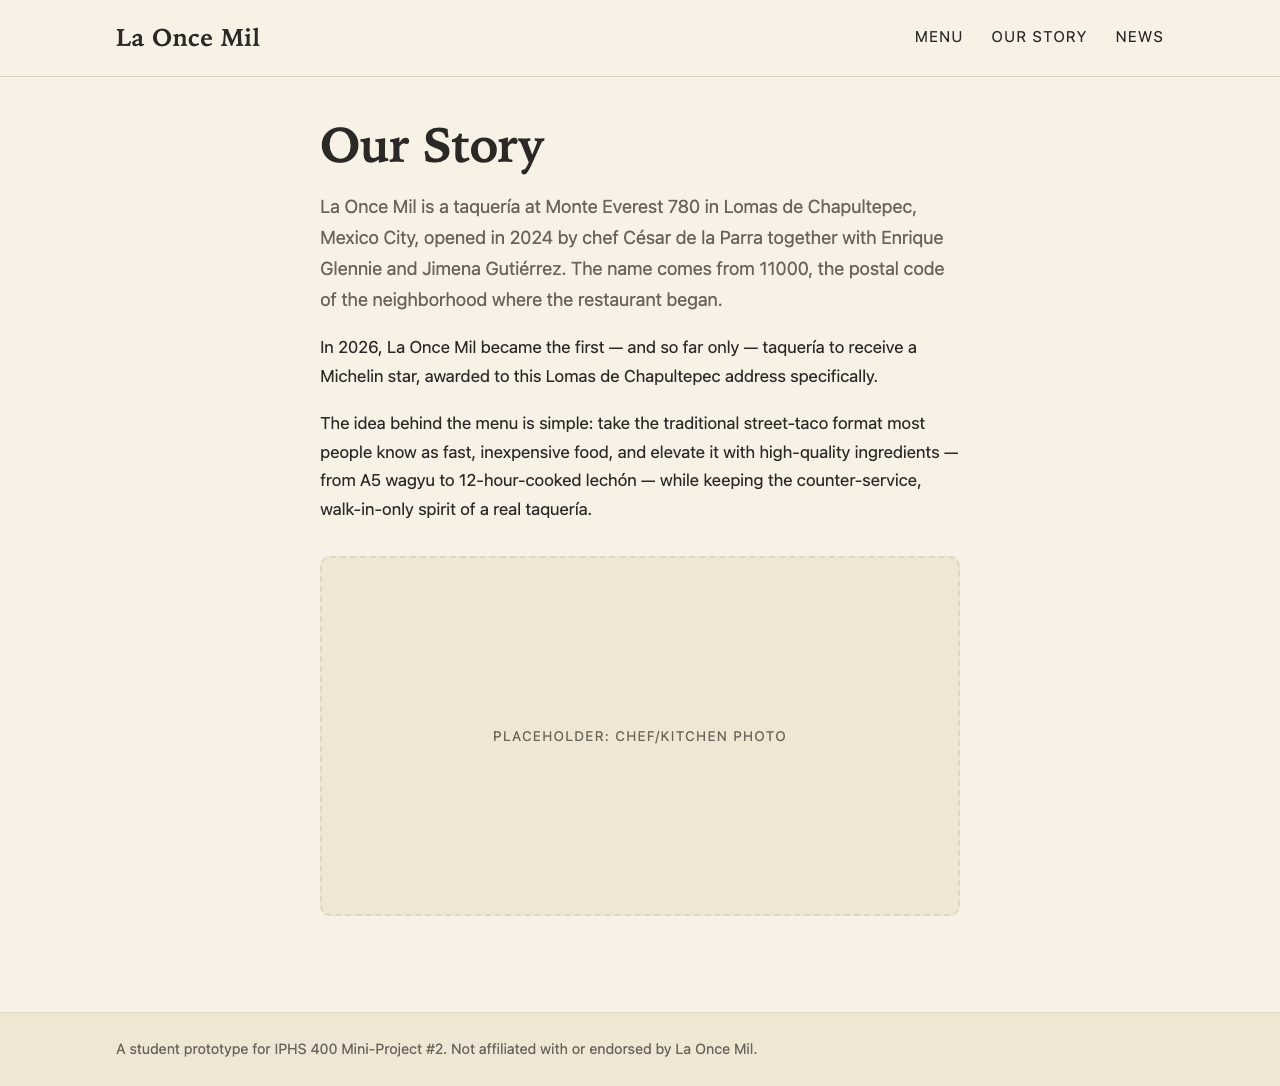
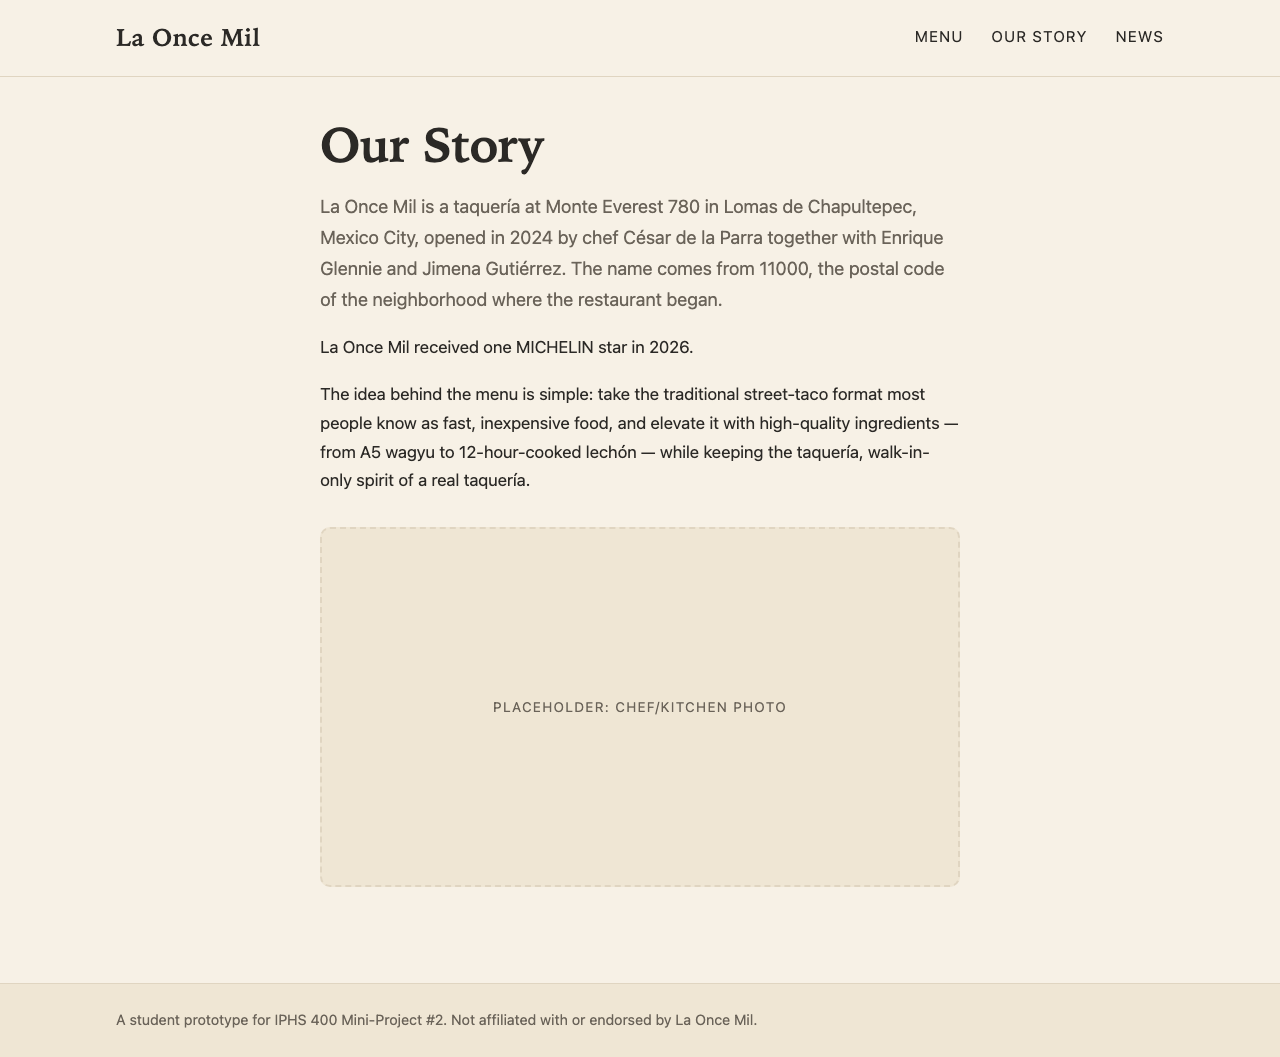
T09: Our Story wording under #10
"counter-service" becomes "taquería"; the "first and only" claim becomes
"La Once Mil received one MICHELIN star in 2026." Applied to seed content and,
via refresh_public_copy(), to saved pages without overwriting other edits
(whitespace-tolerant, Our Story only).

Refs #10

diff --git a/tests/test_public_copy.py b/tests/test_public_copy.py
@@ -171,3 +171,62 @@ def test_refresh_leaves_a_draft_pages_status_alone_and_an_untitled_start_unchang
     seed.refresh_public_copy()
     after = db.get_page_by_slug("menu")
     assert after["status"] == "draft" and after["body_md"] == "Just text, no heading."
+
+
+# --- Our Story wording (T09, final copy decisions) ----------------------------
+
+STAR_SENTENCE = "La Once Mil received one MICHELIN star in 2026."
+OLD_STAR_SENTENCE = ("In 2026, La Once Mil became the first — and so far only — taquería to receive a "
+                     "Michelin star, awarded to this Lomas de Chapultepec address specifically.")
+
+
+def test_our_story_uses_the_agreed_wording_in_seed_and_export(site):
+    html = _visible((site / "our-story.html").read_text())
+    assert STAR_SENTENCE in html
+    assert "counter-service" not in html and "so far only" not in html and "became the first" not in html
+    assert "keeping the taquería, walk-in-only spirit" in html
+
+
+def test_refresh_applies_the_wording_to_a_saved_page_and_keeps_other_edits(seed):
+    saved = seed.OUR_STORY_BODY.replace(STAR_SENTENCE, OLD_STAR_SENTENCE)
+    saved = saved.replace("keeping the taquería,", "keeping the counter-service,")
+    saved += "\nOpen since 2024, still no reservations.\n"
+    _save("our-story", saved)
+    assert seed.refresh_public_copy() == 1
+    body = db.get_page_by_slug("our-story")["body_md"]
+    assert STAR_SENTENCE in body and "counter-service" not in body and "so far only" not in body
+    assert "Open since 2024, still no reservations." in body          # the Manager's addition survives
+    assert "Jimena Gutiérrez" in body                                  # the rest is untouched
+    assert seed.refresh_public_copy() == 0                             # and it is idempotent
+
+
+def test_refresh_leaves_a_page_alone_when_the_manager_already_reworded_the_sentence(seed):
+    saved = seed.OUR_STORY_BODY.replace(STAR_SENTENCE, "We hold a Michelin star, since 2026.")
+    _save("our-story", saved)
+    seed.refresh_public_copy()
+    assert db.get_page_by_slug("our-story")["body_md"] == saved
+
+
+def test_refresh_finds_the_old_sentence_even_if_it_was_wrapped_or_saved_with_crlf(seed):
+    wrapped = OLD_STAR_SENTENCE.replace("became the first", "became\nthe first").replace("so far only —", "so far   only —")
+    saved = seed.OUR_STORY_BODY.replace(STAR_SENTENCE, wrapped).replace("\n", "\r\n")
+    _save("our-story", saved)
+    assert seed.refresh_public_copy() == 1
+    body = db.get_page_by_slug("our-story")["body_md"]
+    assert STAR_SENTENCE in body and "so far" not in body
+    assert "\r\n" in body                                              # line endings are left as saved
+
+
+def test_a_manager_edit_next_to_the_old_wording_survives(seed):
+    saved = seed.OUR_STORY_BODY.replace("keeping the taquería,", "keeping the counter-service,")
+    saved = saved.replace("12-hour-cooked lechón", "slow-cooked lechón")
+    _save("our-story", saved)
+    seed.refresh_public_copy()
+    body = db.get_page_by_slug("our-story")["body_md"]
+    assert "slow-cooked lechón" in body and "counter-service" not in body
+
+
+def test_wording_fixes_do_not_touch_other_pages(seed):
+    _save("menu", "Counter-service style: keeping the counter-service, walk-in-only spirit")
+    seed.refresh_public_copy()
+    assert "counter-service" in db.get_page_by_slug("menu")["body_md"]

diff --git a/scripts/seed_demo.py b/scripts/seed_demo.py
@@ -99,13 +99,12 @@ City, opened in 2024 by chef César de la Parra together with Enrique Glennie an
 Jimena Gutiérrez. The name comes from 11000, the postal code of the neighborhood \
 where the restaurant began.
 
-In 2026, La Once Mil became the first — and so far only — taquería to receive a \
-Michelin star, awarded to this Lomas de Chapultepec address specifically.
+La Once Mil received one MICHELIN star in 2026.
 
 The idea behind the menu is simple: take the traditional street-taco format most \
 people know as fast, inexpensive food, and elevate it with high-quality \
 ingredients — from A5 wagyu to 12-hour-cooked lechón — while keeping the \
-counter-service, walk-in-only spirit of a real taquería.
+taquería, walk-in-only spirit of a real taquería.
 
 [PLACEHOLDER: chef/kitchen photo]
 """
@@ -208,6 +207,24 @@ NEWS_POSTS = [
 ]
 
 
+# Wording decided for Our Story after review: neither the "first and only" claim nor
+# "counter-service" is in our sources. Matching ignores how the text was wrapped or
+# spaced, and a replacement only happens where the old text is still there, so a
+# Manager's own rewording is never overwritten.
+def _loose(text: str) -> "re.Pattern[str]":
+    return re.compile(r"\s+".join(re.escape(word) for word in text.split()))
+
+
+_WORDING_FIXES = {
+    "our-story": [
+        (_loose("In 2026, La Once Mil became the first — and so far only — taquería to receive a "
+                "Michelin star, awarded to this Lomas de Chapultepec address specifically."),
+         "La Once Mil received one MICHELIN star in 2026."),
+        (_loose("keeping the counter-service, walk-in-only spirit"),
+         "keeping the taquería, walk-in-only spirit"),
+    ],
+}
+
 # A sentence that points at a project file, e.g. "... see `notes/foo.md`: ...".
 _INTERNAL_NOTE = re.compile(r" ?[^.\n]*`notes/[^`\n]*`[^.\n]*\.")
 
@@ -235,6 +252,8 @@ def refresh_public_copy() -> int:
                 # The title is already the page's <h1>, so what were sub-headings
                 # under it become the page's top-level sections.
                 new = re.sub(r"(?m)^### ", "## ", rest.lstrip("\n"))
+        for pattern, replacement in _WORDING_FIXES.get(slug, []):
+            new = pattern.sub(replacement, new)
         if new != body:
             db.update_page(slug, title=page["title"], body_md=new,
                            status=page["status"], author_id=page["author_id"])
